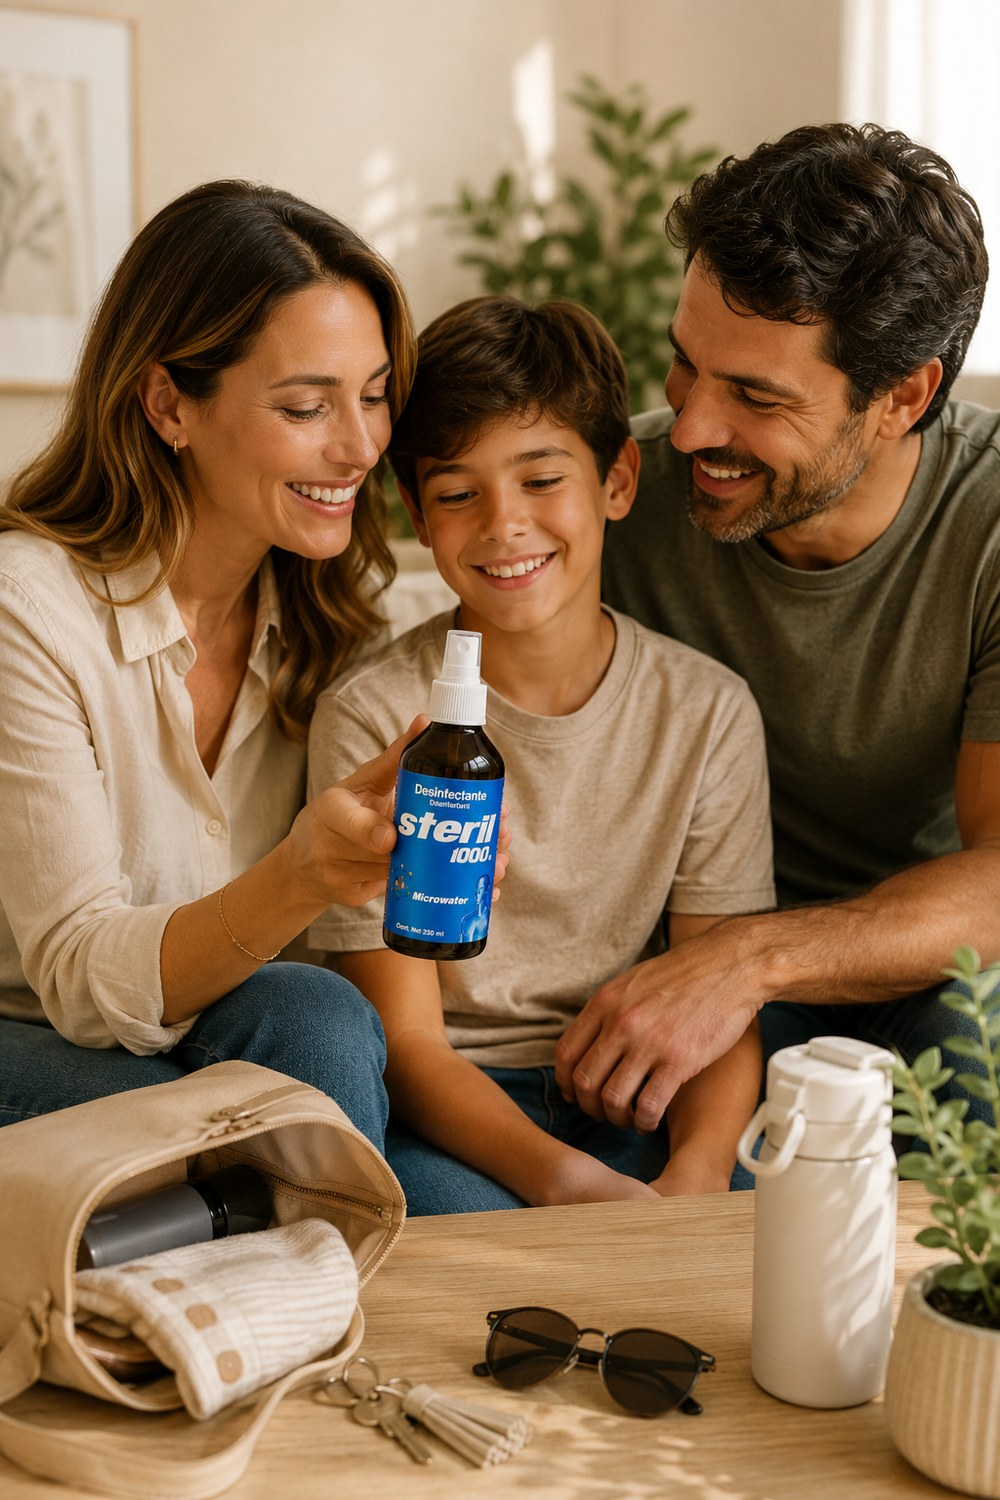
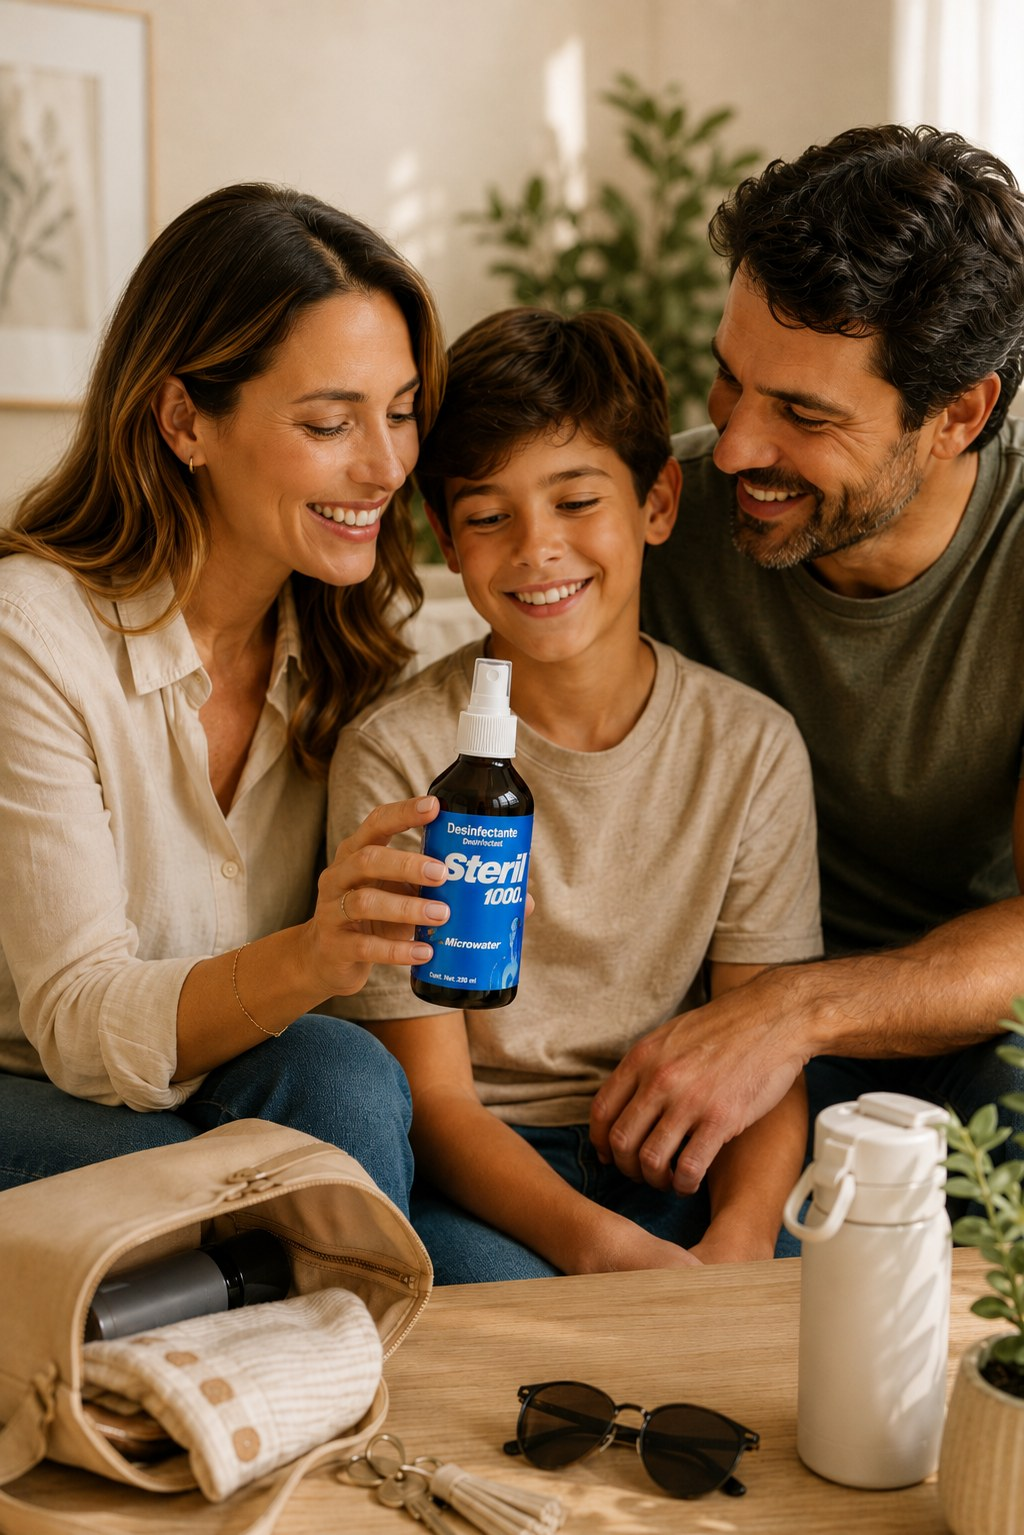
Reemplaza foto lifestyle de Steril Mil y separa redes sociales en tarjetas
- Cambia la foto 3 de Steril 1000 por la versión de lifestyle que
  Andrea envió (misma escena familia, mejor recorte/calidad).
- La sección Contacto ahora muestra cada red social (Instagram,
  TikTok, Facebook, YouTube) como su propia tarjeta clickeable, en
  vez de un solo bloque de texto plano; el editor de admin usa el
  formato "Nombre: enlace" por línea.

diff --git a/src/app/contacto/page.tsx b/src/app/contacto/page.tsx
@@ -12,6 +12,25 @@ export const metadata: Metadata = { title: "Contacto" };
 
 const CONTENT_KEYS = ["contacto_tagline", "contacto_mail", "contacto_whatsapp", "contacto_redes"] as const;
 
+function parseRedes(raw: string): { name: string; description: string; href?: string }[] {
+  const lines = raw
+    .split("\n")
+    .map((line) => line.trim())
+    .filter(Boolean);
+
+  if (lines.length === 0) {
+    return [{ name: "Redes Sociales", description: "Muy pronto encontrarás aquí nuestras redes sociales." }];
+  }
+
+  return lines.map((line) => {
+    const separatorIndex = line.indexOf(":");
+    if (separatorIndex === -1) return { name: line, description: line };
+    const name = line.slice(0, separatorIndex).trim();
+    const href = line.slice(separatorIndex + 1).trim();
+    return { name, description: href, href };
+  });
+}
+
 export default async function ContactoPage() {
   const [content, puntosDeVenta] = await Promise.all([
     getSiteContent(CONTENT_KEYS),
@@ -31,9 +50,7 @@ export default async function ContactoPage() {
             : `https://wa.me/${content.contacto_whatsapp.replace(/\D/g, "")}`,
         }
       : { name: "WhatsApp", description: "Muy pronto encontrarás aquí nuestro número de WhatsApp." },
-    content.contacto_redes
-      ? { name: "Redes Sociales", description: content.contacto_redes }
-      : { name: "Redes Sociales", description: "Muy pronto encontrarás aquí nuestras redes sociales." },
+    ...parseRedes(content.contacto_redes),
   ];
 
   return (

diff --git a/src/app/admin/contenido/page.tsx b/src/app/admin/contenido/page.tsx
@@ -165,13 +165,13 @@ export default async function ContenidoAdminPage({
           </div>
           <div>
             <label className={labelClass} htmlFor="contacto_redes">
-              Redes sociales
+              Redes sociales (una por línea, formato &quot;Nombre: enlace&quot;)
             </label>
             <textarea
               id="contacto_redes"
               name="contacto_redes"
-              rows={3}
-              placeholder="Instagram: @zindo&#10;Facebook: /zindo"
+              rows={4}
+              placeholder={"Instagram: https://instagram.com/zindo\nTikTok: https://tiktok.com/@zindo"}
               defaultValue={content.contacto_redes}
               className={inputClass}
             />
